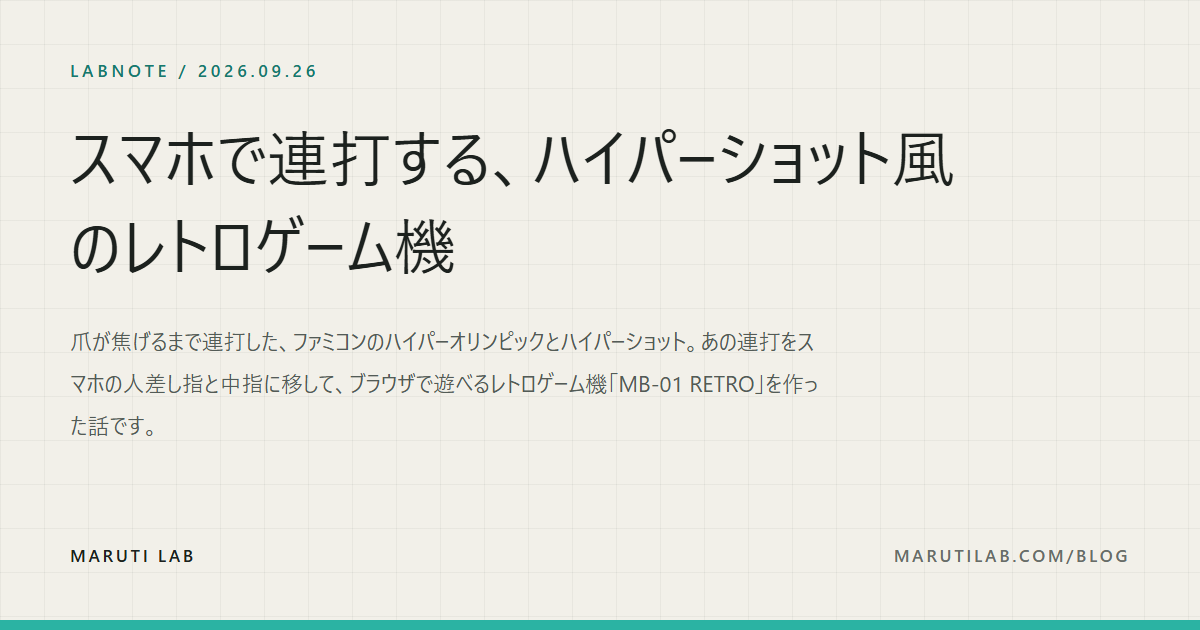
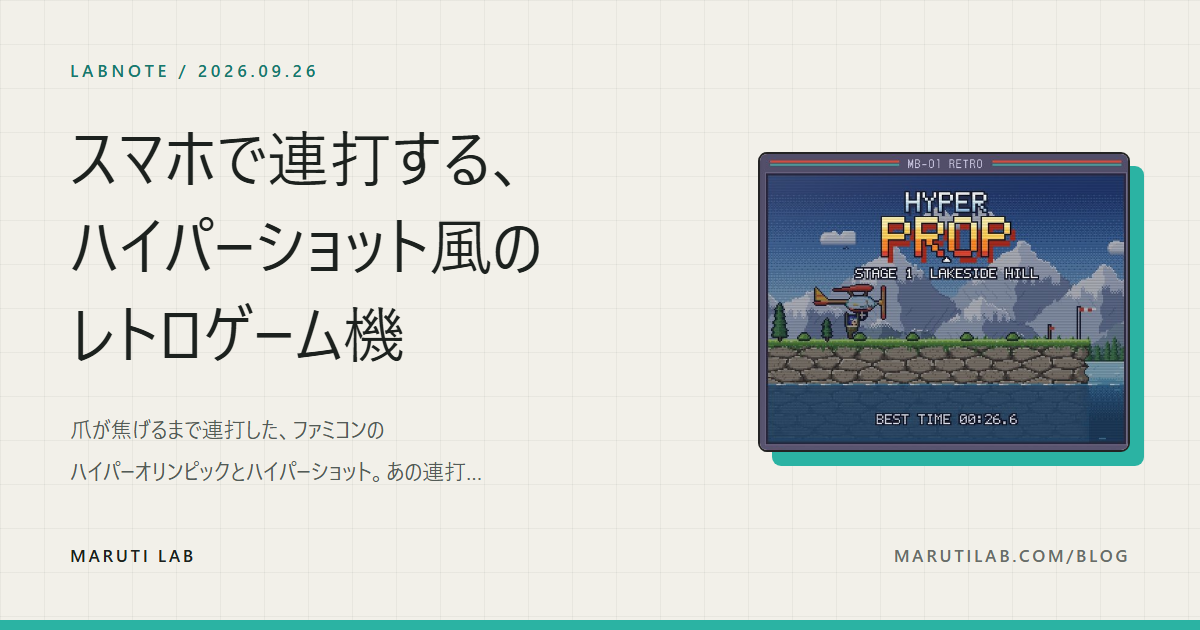
Give the MB-01 RETRO note's share card the handheld's screen
Beside a picture, a note card's title now breaks between phrases rather than
mid-word, and its description stops at two lines instead of running into the
signature.

diff --git a/app/og-preview/ogPreview.module.css b/app/og-preview/ogPreview.module.css
@@ -237,9 +237,19 @@
 }
 .note.hasArt h1 {
   max-width: 9.4em;
+  /* Narrowed beside the picture, a title breaks mid-word (ハイ/パー) unless it
+     is told to break between phrases. */
+  word-break: auto-phrase;
 }
 .note.hasArt .noteDesc {
   max-width: 19em;
+  /* A long description beside a three-line title would run into the
+     signature; the card only needs its opening. */
+  display: -webkit-box;
+  -webkit-box-orient: vertical;
+  -webkit-line-clamp: 2;
+  word-break: auto-phrase;
+  overflow: hidden;
 }
 
 .note.square h1 {

diff --git a/app/og-preview/page.tsx b/app/og-preview/page.tsx
@@ -115,6 +115,7 @@ function Card({ id, square }: { id: string; square?: boolean }) {
 // room for it without becoming a different composition.
 const noteArt: Record<string, string> = {
   paku: "/games/paku/tank.png",
+  "mb-01-retro": "/blog/mb-01-retro-screen.png",
 };
 
 // The notes get the same treatment: a real page captured by the same script,
